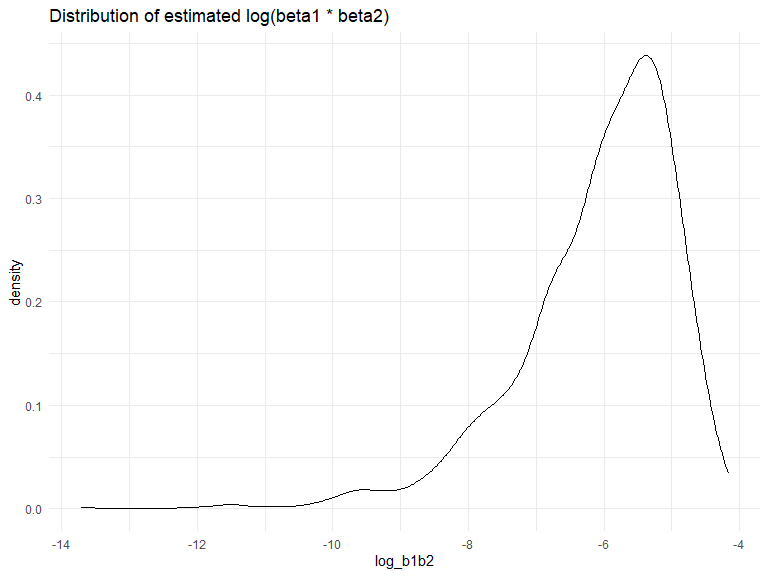
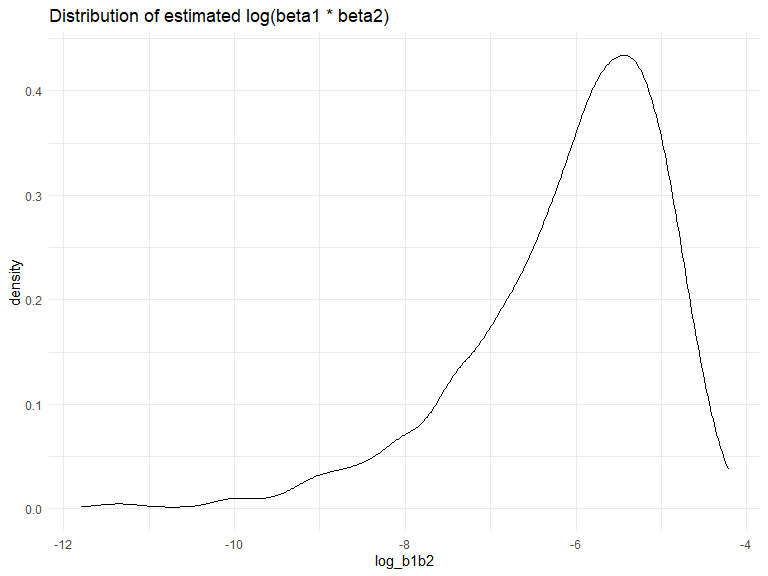
prob 1 text

diff --git a/p8105_hw6_sz3213.md b/p8105_hw6_sz3213.md
@@ -80,6 +80,7 @@ results_df |>
 ```
 
 ![](p8105_hw6_sz3213_files/figure-gfm/plot%20for%20OR%20and%20CI%20for%20each%20city-1.png)<!-- -->
+
 From the plot, most cities have odds ratios that are smaller than 1,
 which suggests that crimes with male victims have smaller odds of
 resolution compared to crimes with female victims after adjusting for
@@ -141,13 +142,13 @@ c(LB_r, UB_r)|>
 
 |       |     x |
 |:------|------:|
-| 2.5%  | 0.889 |
+| 2.5%  | 0.888 |
 | 97.5% | 0.940 |
 
 The distribution of $\hat{r^2}$ is slightly left-skewed, with the range
 from 0.86 to 0.96 and the mode around 0.92. The 2.5% and 97.5% quantiles
-of the distribution are 0.889 and 0.94, respectively, and the
-corresponding 95% confidence interval is (0.889, 0.94).
+of the distribution are 0.888 and 0.94, respectively, and the
+corresponding 95% confidence interval is (0.888, 0.94).
 
 ``` r
 bootstrap_results |> 
@@ -168,14 +169,14 @@ c(LB_b, UB_b)|>
 
 |       |      x |
 |:------|-------:|
-| 2.5%  | -8.978 |
-| 97.5% | -4.540 |
+| 2.5%  | -8.930 |
+| 97.5% | -4.567 |
 
 The distribution of $log(\hat{\beta_1} * \hat{\beta_2})$ is heavily
 left-skewed, with the range from -12 to -4 and the mode around -5.5. The
-2.5% and 97.5% quantiles of the distribution are -8.978 and -4.54,
-respectively, and the corresponding 95% confidence interval is (-8.978,
--4.54).
+2.5% and 97.5% quantiles of the distribution are -8.93 and -4.567,
+respectively, and the corresponding 95% confidence interval is (-8.93,
+-4.567).
 
 ## Problem 3
 
